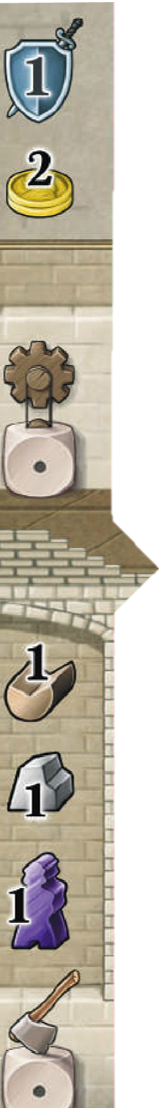
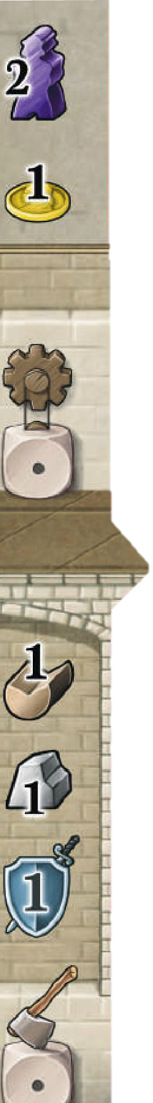
Aggiunta bottone skip move e fix bonusBar file

diff --git a/src/main/java/it/polimi/ingsw/ps42/view/GUI/GUIView.java b/src/main/java/it/polimi/ingsw/ps42/view/GUI/GUIView.java
@@ -3,10 +3,13 @@ package it.polimi.ingsw.ps42.view.GUI;
 import java.awt.Container;
 import java.awt.Dimension;
 import java.awt.EventQueue;
+import java.awt.Font;
 import java.awt.Frame;
 import java.awt.Image;
 import java.awt.Point;
 import java.awt.Toolkit;
+import java.awt.event.ActionEvent;
+import java.awt.event.ActionListener;
 import java.awt.image.BufferedImage;
 import java.io.IOException;
 import java.util.ArrayList;
@@ -16,6 +19,7 @@ import java.util.List;
 
 import javax.imageio.ImageIO;
 import javax.swing.ImageIcon;
+import javax.swing.JButton;
 import javax.swing.JComponent;
 import javax.swing.JFrame;
 import javax.swing.JLabel;
@@ -62,6 +66,9 @@ public class GUIView extends View implements TableInterface{
 	
 	//The Container for all the cards taken
 	private CardContainer cardContainer;
+	
+	//The JButton used to skip a move
+	private JButton skipMove;
 	
 	//The Image of the familiar currently moving
 	private DraggableComponent movingFamiliar;
@@ -189,10 +196,12 @@ public class GUIView extends View implements TableInterface{
 		Point resourceWindowLocation = new Point((int)(leftPaneDimension.getWidth()+cardZoom.getWidth()), (int)lowTableLabel.getHeight());
 		resourceWindow = new ResourceWindow(resourceWindowDimension, resourceWindowLocation, imageLoader );
 		mainFrame.add(resourceWindow);
-
+		
+		//Build the JButton to skip a move
+		buildSkipMoveButton();
+		
 		LoginWindow login = new LoginWindow(this, "");
 		login.run();
-		
 	}
 	/**
 	 * Initialize the Card Position Label
@@ -949,7 +958,7 @@ public class GUIView extends View implements TableInterface{
 	@Override
 	public void setBonusBarChoice(List<BonusBar> bonusBars, int choice) {
 		try {
-			cardContainer.addBonusBarLabel(imageLoader.loadBonusBarImage(new Integer(choice+1)));
+			cardContainer.addBonusBarLabel(imageLoader.loadBonusBarImage(bonusBars.get(choice).getName()));
 		} catch (IOException e) {
 			logger.error("Image for BonusBar not found!");
 			logger.info(e);
@@ -978,6 +987,9 @@ public class GUIView extends View implements TableInterface{
 	@Override
 	protected void choosePlayerMove(ActionPrototype prototype, boolean isRetrasmission) {
 		//Enable the Player to perform a new Move, if is a retrasmission then cancel the precedent
+		
+		enableSkipButton();
+		
 		if(isRetrasmission && nextMove != null)
 			cancelMove(nextMove.getActionType(), nextMove.getPosition());
 		if(prototype != null){
@@ -989,7 +1001,36 @@ public class GUIView extends View implements TableInterface{
 		}
 		
 	}
-
+	
+	private void buildSkipMoveButton(){
+		skipMove = new JButton("Skip Move");
+		skipMove.setLocation((int)(tableImageDimension.getWidth() * 0.01), (int)(tableImageDimension.getHeight() * 0.91));
+		skipMove.setSize((int)(tableImageDimension.getWidth() * 0.15), (int)(tableImageDimension.getHeight() * 0.05));
+		skipMove.setFont(new Font("Papyrus", Font.ITALIC, (int)(skipMove.getHeight()*0.4)));
+		mainLayeredPane.add(skipMove, 0);
+		skipMove.addActionListener(new ActionListener() {
+			
+			@Override
+			public void actionPerformed(ActionEvent e) {
+				//Send to the GameLogic an emptyMove
+				setEmptyMove();
+				disableSkipButton();
+				disableMove();
+			}
+		});
+		disableSkipButton();
+	}
+	
+	private void enableSkipButton(){
+		skipMove.setEnabled(true);
+		skipMove.setVisible(true);
+	}
+	
+	private void disableSkipButton(){
+		skipMove.setEnabled(false);
+		skipMove.setVisible(false);	
+	}
+	
 	private void buildBonusFamiliar(){
 		
 		int deltaX = (int)(tableImageDimension.getWidth()*0.56 + blackFamiliar.getWidth() * 1.1 * 4);

diff --git a/src/main/java/it/polimi/ingsw/ps42/model/player/BonusBar.java b/src/main/java/it/polimi/ingsw/ps42/model/player/BonusBar.java
@@ -20,20 +20,20 @@ public class BonusBar implements Serializable{
 	private Player player;
 	private final Effect productBonus;
 	private final Effect yieldBonus;
+	private final String name;
 	
 	private boolean hasBeenInitialized=false;
 	
-	public BonusBar(Effect productBonus, Effect yieldBonus) {
+	public BonusBar(Effect productBonus, Effect yieldBonus, String name) {
 		//Advanced BonusBar for advanced game. Loaded from file
-		//TO-DO: Check this code when implementing advanced mode
 		this.productBonus = productBonus;
 		this.yieldBonus = yieldBonus;
-
+		this.name = name;
 	}
 	
 	public BonusBar() {
 		//Simple BonusBar for the game. Is the same for all the player 
-
+		this.name = "default";
 		//Build the default yield Bonus
 		HashMap<Resource, Integer> yieldBonus=new HashMap<>();
 		yieldBonus.put(Resource.SLAVE,1);
@@ -76,9 +76,13 @@ public class BonusBar implements Serializable{
 		else throw new NullPointerException("The bonus bar do not has a player! Set the player before applying the bonus");
 	}
 
+	public String getName() {
+		return name;
+	}
+	
 	@Override
 	public BonusBar clone() {
-		return new BonusBar(productBonus.clone(), yieldBonus.clone());
+		return new BonusBar(productBonus.clone(), yieldBonus.clone(), name);
 	}
 	
 	@Override

diff --git a/src/main/java/it/polimi/ingsw/ps42/parser/BonusBarBuilder.java b/src/main/java/it/polimi/ingsw/ps42/parser/BonusBarBuilder.java
@@ -39,8 +39,9 @@ public class BonusBarBuilder extends Builder{
 		Obtain productBonus = askObtain();
 		System.out.println("NUOVO BONUS PER AZIONE RACCOLTO");
 		Obtain yieldBonus = askObtain();
-		
-		BonusBar bonusBar = new BonusBar(productBonus, yieldBonus);
+		System.out.println("Nome bonusBar? ");
+		String name = scanner.nextLine();
+		BonusBar bonusBar = new BonusBar(productBonus, yieldBonus, name );
 		String parse = gson.toJson(bonusBar);
 		buffer.append(parse);
 		

diff --git a/src/main/java/it/polimi/ingsw/ps42/parser/ImageLoader.java b/src/main/java/it/polimi/ingsw/ps42/parser/ImageLoader.java
@@ -117,8 +117,8 @@ public class ImageLoader extends Loader{
 		return ImageIO.read(new File(resourcePath.get(resource.toString())));
 	}
 	
-	public BufferedImage loadBonusBarImage(Integer value) throws IOException{
-		return ImageIO.read(new File(bonusBarPath.get(value.toString())));
+	public BufferedImage loadBonusBarImage(String name) throws IOException{
+		return ImageIO.read(new File(bonusBarPath.get(name)));
 	}
 	
 	public int cardsMapSize() {
